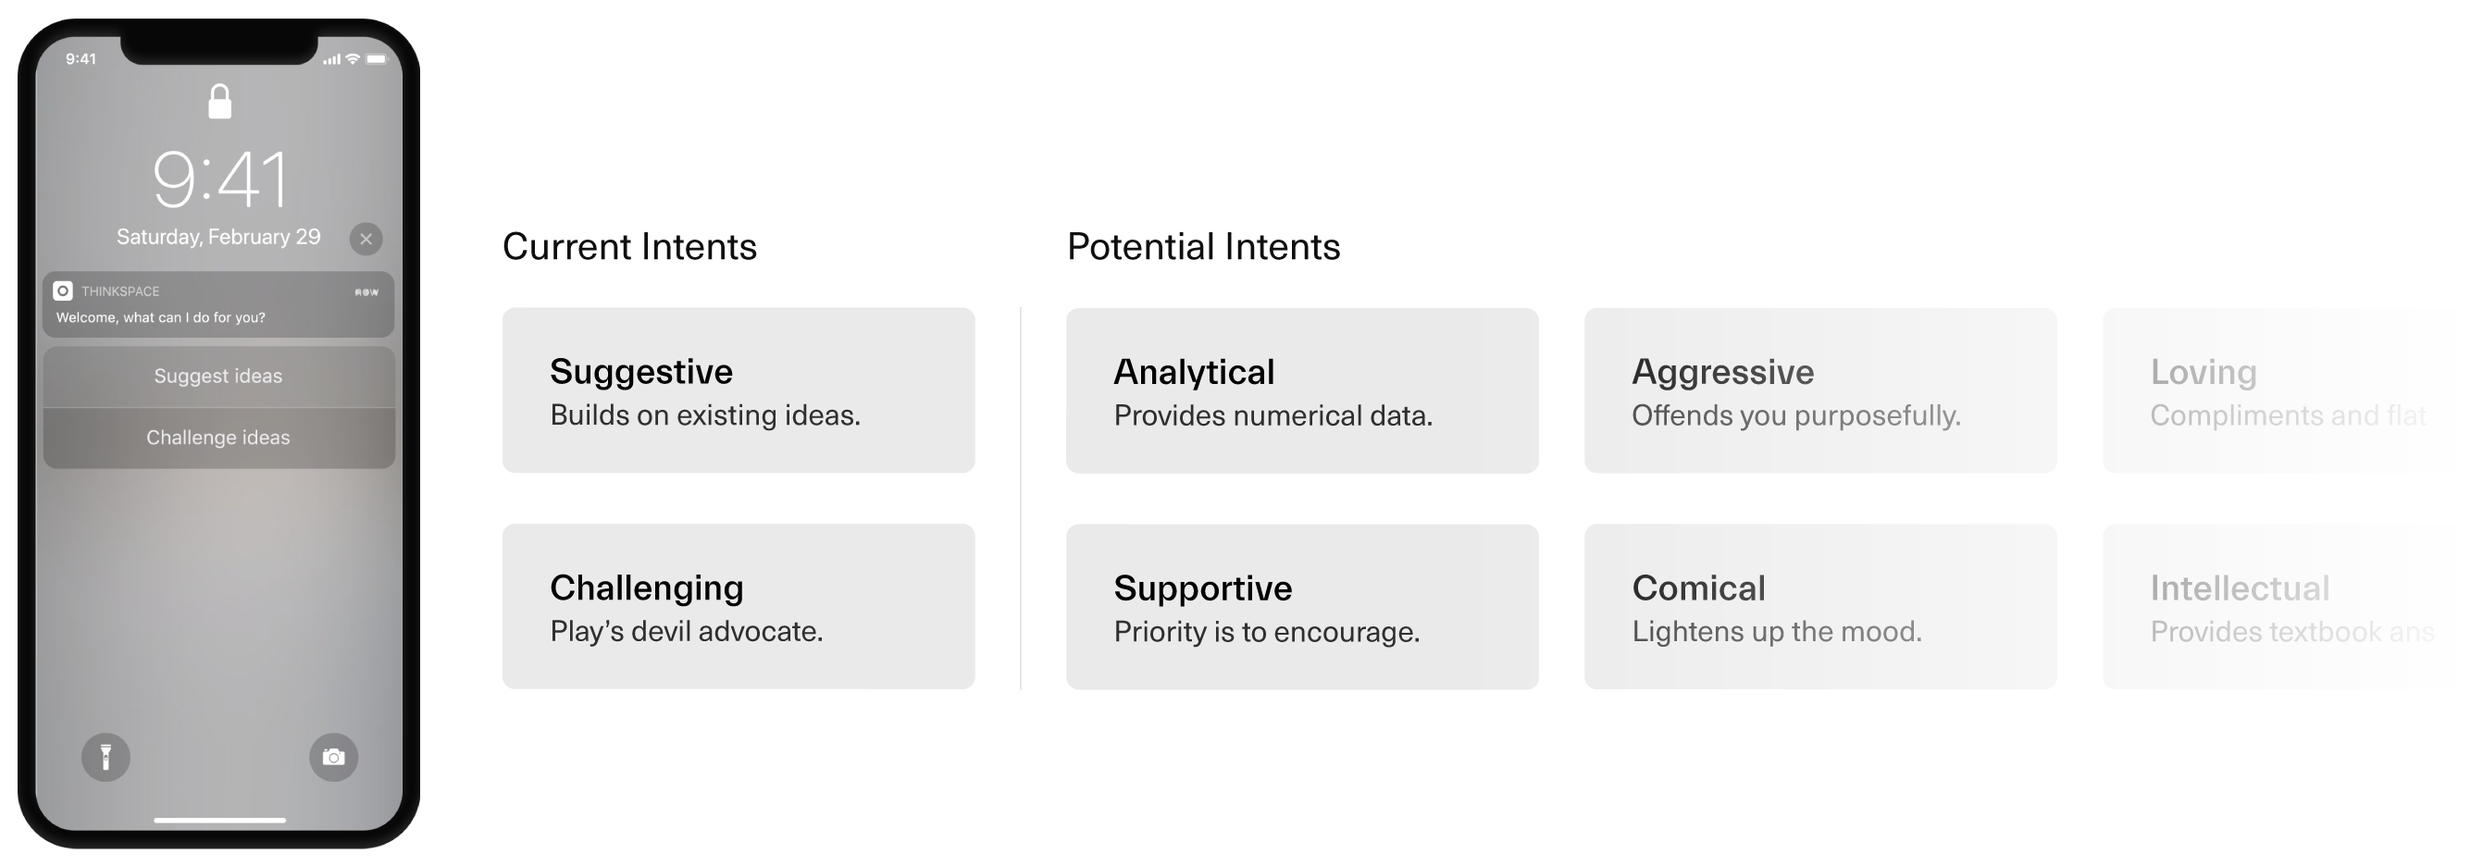
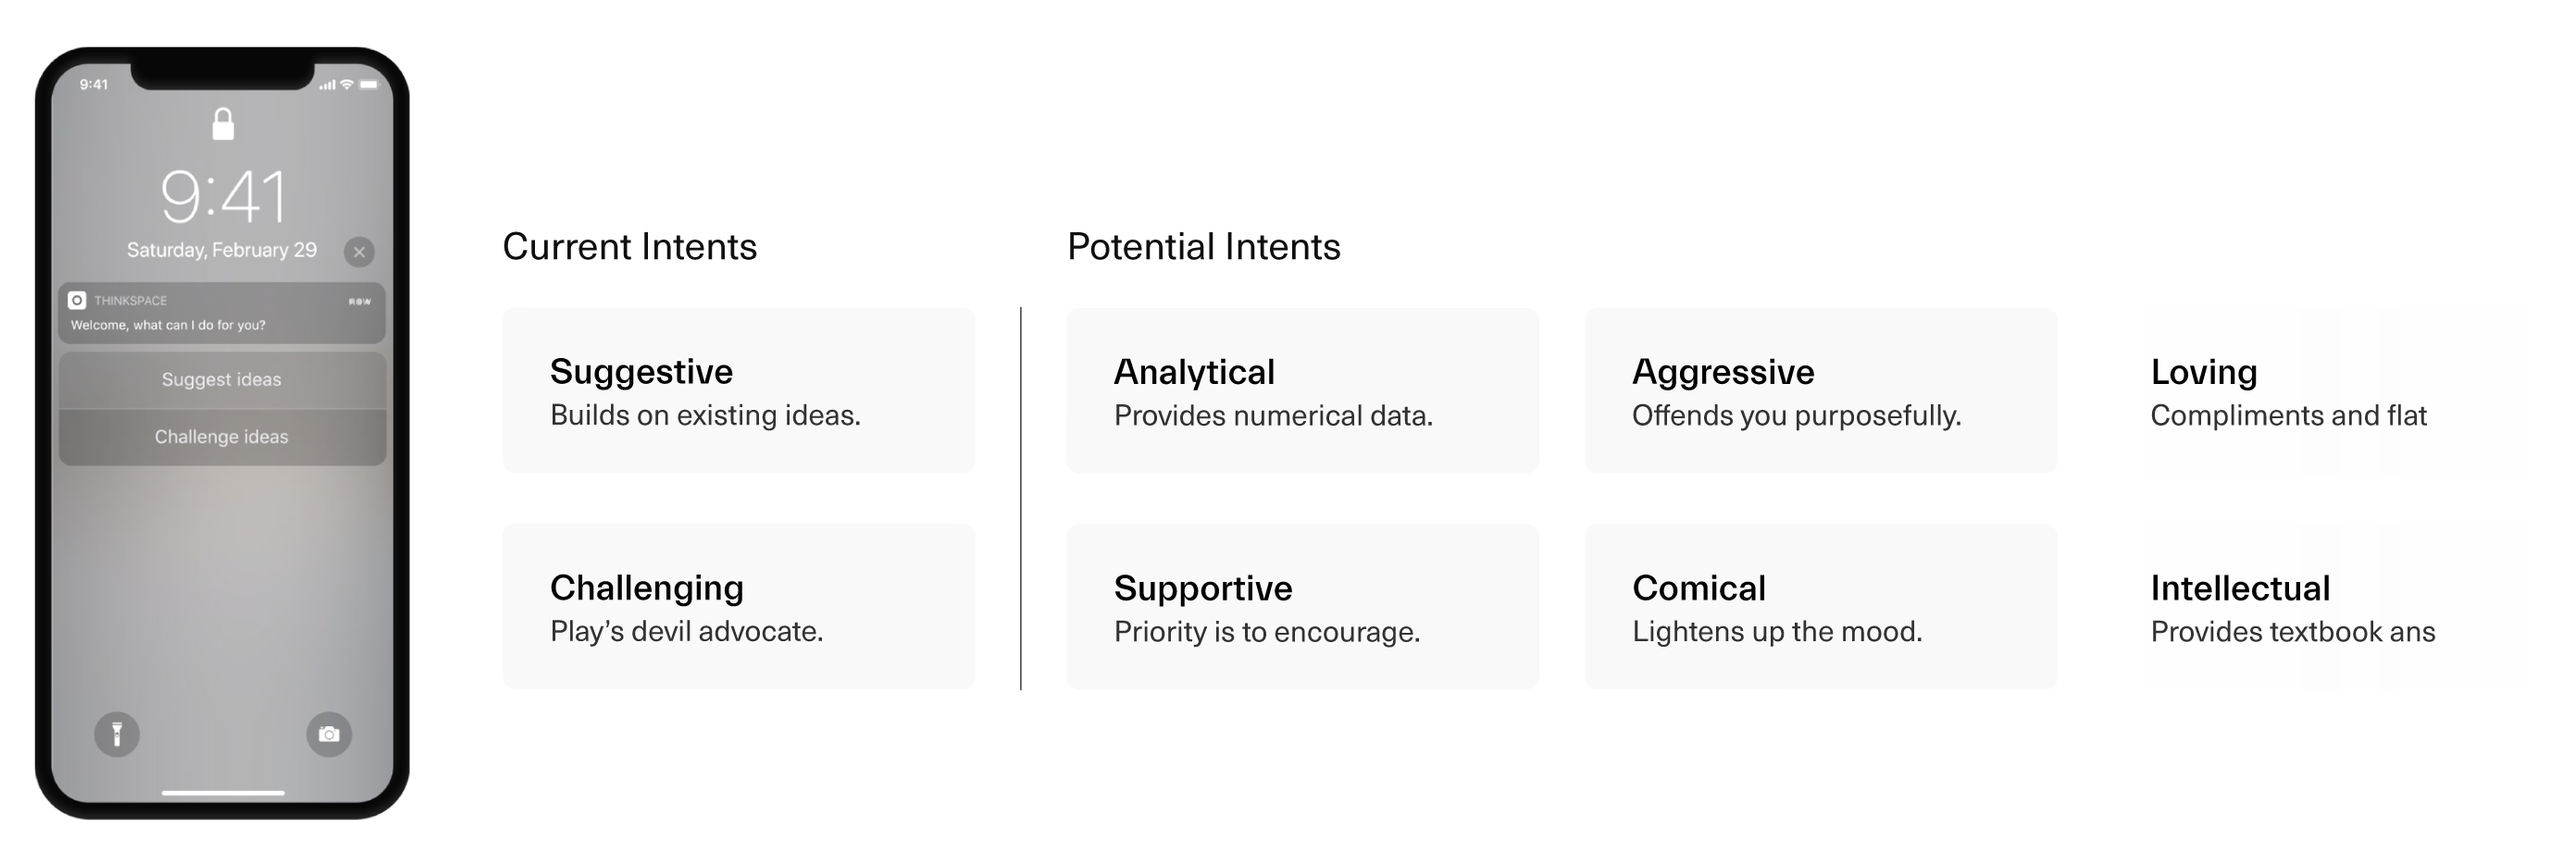
1

diff --git a/src/pages/work/phipps.js b/src/pages/work/phipps.js
@@ -114,7 +114,7 @@ export default function Thinkspace() {
           </p>
         </div>
         <Spacer />
-        <img src="/static/work/phipps/final_actionTrophies.jpg"></img>
+        <img src="/static/work/phipps/final_actionTrophies.png"></img>
         <Divider />
         <h4 className={styles.left}>Information Cards —</h4>
 
@@ -127,7 +127,7 @@ export default function Thinkspace() {
         </p>
 
         <Spacer />
-        <img src="/static/work/phipps/final_digitalSigns.jpg"></img>
+        <img src="/static/work/phipps/final_digitalSigns.png"></img>
         <Divider />
         <h4 className={styles.left}>Stakeholders —</h4>
         <div className={styles.right}>

diff --git a/src/pages/work/work.module.scss b/src/pages/work/work.module.scss
@@ -64,7 +64,7 @@
     font-weight: 400;
     font-size: $body-font-size;
     line-height: 1.1rem;
-    letter-spacing: 0rem;
+    letter-spacing: -0.01rem;
     // border-bottom: 1.5px solid $font-black;
   }
 
@@ -180,7 +180,8 @@
     em,
     u {
       font-size: $mobile-body-font-size;
-      line-height: 1rem;
+      line-height: 1.15rem;
+      letter-spacing: 0rem;
     }
 
     h2 {

diff --git a/styles/vars_module.scss b/styles/vars_module.scss
@@ -1,6 +1,6 @@
 $grid-gap: 18px;
 $nav-footer-padding: 10px;
-$background-color: white;
+$background-color: rgb(240, 240, 240);
 
 $primary-font: "space mono";
 $header-font: neue-haas-unica, freight-text-pro;
